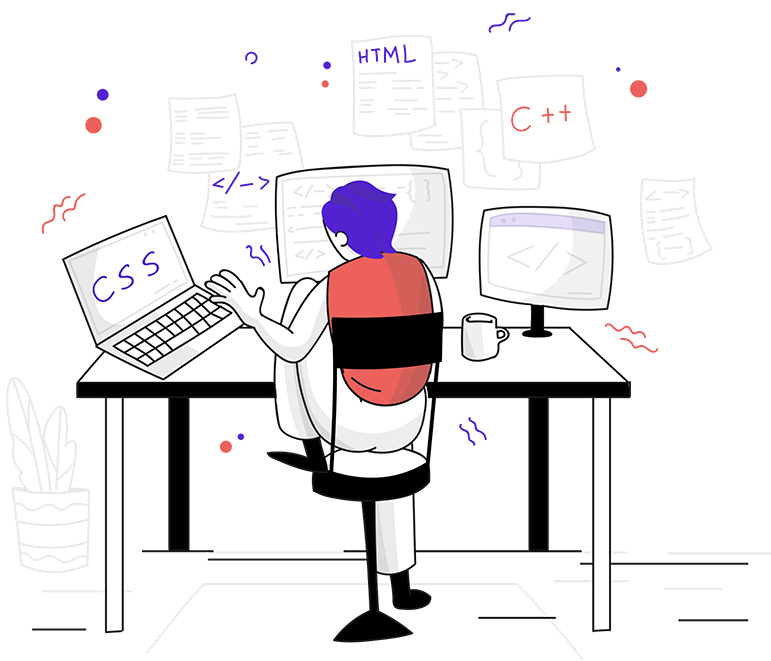
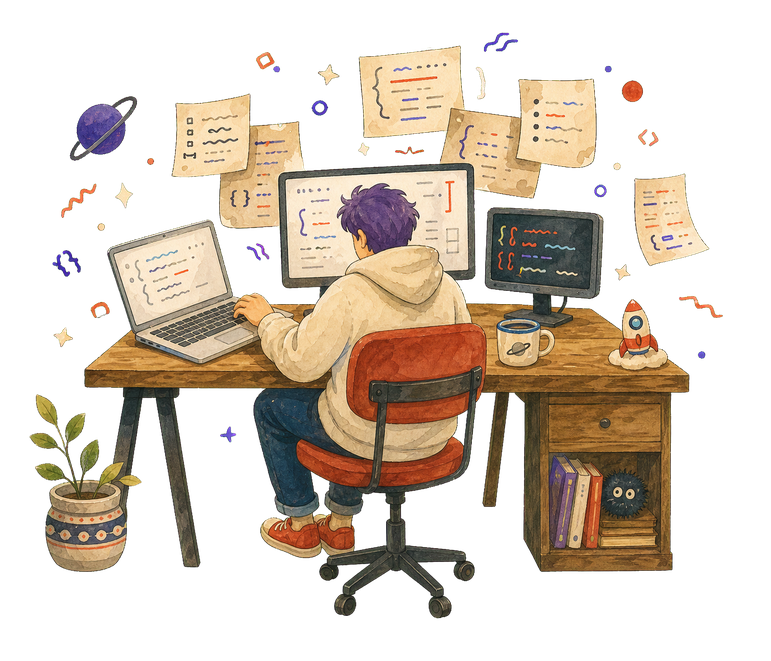
chore(assets): replace about photos with illustrations

diff --git a/src/app/[locale]/(default)/about/page.tsx b/src/app/[locale]/(default)/about/page.tsx
@@ -14,9 +14,9 @@ import { getAge } from '@/features/about/utils/date.utils'
 import { getLocalPrefix } from '@/config/i18n'
 import { siteMetadata } from '@/config/site-config'
 
-import AndyImage from '@/assets/images/about-andy.jpg'
-import ComputerImage from '@/assets/images/about-computer.jpg'
-import FamilyImage from '@/assets/images/about-family.jpg'
+import AndyImage from '@/assets/images/about-andy-illustration.png'
+import ComputerImage from '@/assets/images/about-computer-illustration.png'
+import FamilyImage from '@/assets/images/about-family-illustration.png'
 import HeroImage from '@/assets/images/about-hero-image.png'
 
 export async function generateMetadata(props: PageLocaleProp): Promise<Metadata> {
